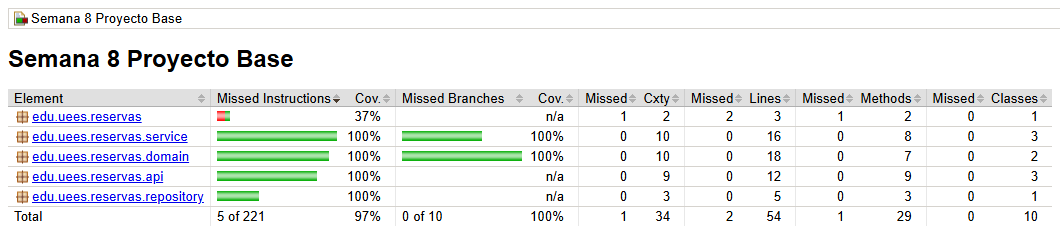
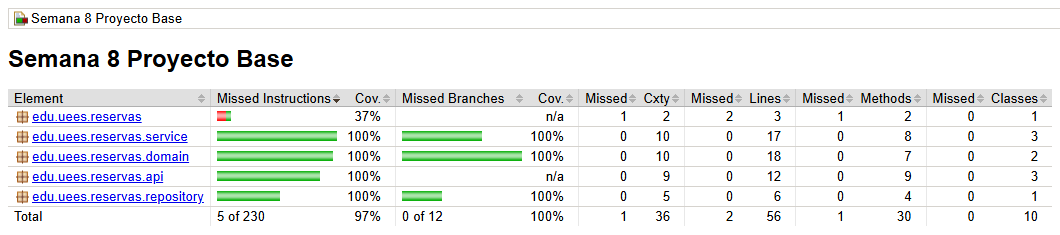
fix: crear reservas de forma atomica para evitar duplicados concurrentes

diff --git a/src/test/java/edu/uees/reservas/repository/ReservaRepositoryMemoriaTest.java b/src/test/java/edu/uees/reservas/repository/ReservaRepositoryMemoriaTest.java
@@ -1,0 +1,68 @@
+package edu.uees.reservas.repository;
+
+import edu.uees.reservas.domain.EstadoReserva;
+import edu.uees.reservas.domain.Reserva;
+import org.junit.jupiter.api.Test;
+
+import java.util.concurrent.CountDownLatch;
+import java.util.concurrent.ExecutorService;
+import java.util.concurrent.Executors;
+import java.util.concurrent.Future;
+import java.util.concurrent.TimeUnit;
+import java.util.concurrent.atomic.AtomicInteger;
+
+import static org.junit.jupiter.api.Assertions.assertEquals;
+import static org.junit.jupiter.api.Assertions.assertFalse;
+import static org.junit.jupiter.api.Assertions.assertSame;
+import static org.junit.jupiter.api.Assertions.assertTrue;
+
+class ReservaRepositoryMemoriaTest {
+
+    private final ReservaRepositoryMemoria repository = new ReservaRepositoryMemoria();
+
+    @Test
+    void guardarActualizaReservaExistente() {
+        Reserva reserva = new Reserva("R-001", "NORMAL");
+        repository.guardarSiNoExiste(reserva);
+        reserva.confirmar();
+
+        assertSame(reserva, repository.guardar(reserva));
+        assertEquals(EstadoReserva.CONFIRMADA, repository.buscarPorId("R-001").orElseThrow().getEstado());
+    }
+
+    @Test
+    void guardarSiNoExisteNoSobrescribe() {
+        assertTrue(repository.guardarSiNoExiste(new Reserva("R-001", "NORMAL")));
+        assertFalse(repository.guardarSiNoExiste(new Reserva("R-001", "VIP")));
+
+        assertEquals("NORMAL", repository.buscarPorId("R-001").orElseThrow().getTipo());
+    }
+
+    @Test
+    void creacionesSimultaneasConMismoIdSoloGuardanUna() throws Exception {
+        int hilos = 20;
+        ExecutorService pool = Executors.newFixedThreadPool(hilos);
+        CountDownLatch salida = new CountDownLatch(1);
+        AtomicInteger exitos = new AtomicInteger();
+        try {
+            Future<?>[] tareas = new Future<?>[hilos];
+            for (int i = 0; i < hilos; i++) {
+                tareas[i] = pool.submit(() -> {
+                    salida.await();
+                    if (repository.guardarSiNoExiste(new Reserva("R-900", "NORMAL"))) {
+                        exitos.incrementAndGet();
+                    }
+                    return null;
+                });
+            }
+            salida.countDown();
+            for (Future<?> tarea : tareas) {
+                tarea.get(5, TimeUnit.SECONDS);
+            }
+        } finally {
+            pool.shutdownNow();
+        }
+
+        assertEquals(1, exitos.get());
+    }
+}

diff --git a/src/test/java/edu/uees/reservas/service/ReservaServiceTest.java b/src/test/java/edu/uees/reservas/service/ReservaServiceTest.java
@@ -45,7 +45,7 @@ class ReservaServiceTest {
 
     @Test
     void crearGuardaReservaPendiente() {
-        when(repository.guardar(any(Reserva.class))).thenAnswer(inv -> inv.getArgument(0));
+        when(repository.guardarSiNoExiste(any(Reserva.class))).thenReturn(true);
 
         Reserva reserva = service.crear("R-001", "NORMAL");
 
@@ -56,7 +56,7 @@ class ReservaServiceTest {
 
     @Test
     void crearConIdExistenteLanzaExcepcionYNoSobrescribe() {
-        when(repository.buscarPorId("R-001")).thenReturn(Optional.of(new Reserva("R-001", "NORMAL")));
+        when(repository.guardarSiNoExiste(any(Reserva.class))).thenReturn(false);
 
         assertThrows(ReservaDuplicadaException.class, () -> service.crear("R-001", "VIP"));
         verify(repository, never()).guardar(any(Reserva.class));

diff --git a/src/main/java/edu/uees/reservas/service/ReservaService.java b/src/main/java/edu/uees/reservas/service/ReservaService.java
@@ -20,10 +20,11 @@ public class ReservaService {
     }
 
     public Reserva crear(String id, String tipo) {
-        if (repository.buscarPorId(id).isPresent()) {
+        Reserva reserva = new Reserva(id, tipo);
+        if (!repository.guardarSiNoExiste(reserva)) {
             throw new ReservaDuplicadaException(id);
         }
-        return repository.guardar(new Reserva(id, tipo));
+        return reserva;
     }
 
     public Reserva buscar(String id) {

diff --git a/src/main/java/edu/uees/reservas/repository/ReservaRepositoryMemoria.java b/src/main/java/edu/uees/reservas/repository/ReservaRepositoryMemoria.java
@@ -19,6 +19,11 @@ public class ReservaRepositoryMemoria implements ReservaRepository {
     }
 
     @Override
+    public boolean guardarSiNoExiste(Reserva reserva) {
+        return datos.putIfAbsent(reserva.getId(), reserva) == null;
+    }
+
+    @Override
     public Optional<Reserva> buscarPorId(String id) {
         return Optional.ofNullable(datos.get(id));
     }

diff --git a/src/main/java/edu/uees/reservas/repository/ReservaRepository.java b/src/main/java/edu/uees/reservas/repository/ReservaRepository.java
@@ -5,5 +5,6 @@ import java.util.Optional;
 
 public interface ReservaRepository {
     Reserva guardar(Reserva reserva);
+    boolean guardarSiNoExiste(Reserva reserva);
     Optional<Reserva> buscarPorId(String id);
 }

diff --git a/docs/03_DEFENSA_GUIA.md b/docs/03_DEFENSA_GUIA.md
@@ -43,6 +43,7 @@ Cada capa depende solo de la siguiente. El Controller no conoce las reglas y el 
 | `IllegalArgumentException` genérica → respuesta `500`. | `ReservaNoEncontradaException` + manejador → `404`. | El error expresa el negocio y el cliente recibe una respuesta correcta. |
 | Número fijo `2` dentro de `puedeCancelar`. | Constante `HORAS_MINIMAS_CANCELACION`. | La regla tiene nombre y se cambia en un solo lugar; las pruebas la reutilizan. |
 | Un POST con id repetido sobrescribía la reserva. | `ReservaDuplicadaException` → `409 Conflict`. | Se evita la pérdida silenciosa de datos. |
+| "Buscar y luego guardar" en dos pasos: dos POST simultáneos podían crear la misma reserva. | `guardarSiNoExiste()` en una sola operación atómica (`putIfAbsent`). | El control de duplicados funciona también con peticiones concurrentes. |
 
 ## 4. Demostración funcional (3–4 min)
 
@@ -64,7 +65,7 @@ bash scripts/demo.sh
 
 ## 5. Pruebas y cobertura (2 min)
 
-- `mvn clean test` → **24 pruebas en verde**, en 3 niveles: dominio (6), Service (9) y Controller con MockMvc (9).
+- `mvn clean test` → **27 pruebas en verde**, en 4 niveles: dominio (6), repositorio (3, incluida una prueba de concurrencia), Service (9) y Controller con MockMvc (9).
 - JaCoCo: **100 % de ramas**, 96 % de líneas y 98 % de instrucciones. Lo único sin cubrir es el método `main` que arranca la aplicación.
 - **Interpretación:** el 100 % de ramas significa que se probaron todas las decisiones del código (sí/no), no que el sistema esté libre de errores. La cobertura mide qué se ejecutó, no si la regla es la correcta.
 
@@ -74,9 +75,9 @@ bash scripts/demo.sh
 git log --oneline --graph --decorate
 ```
 
-- Ramas: `feature/integracion-api` → `release/candidato-final` → `feature/entrega-final`, cada una integrada a `main` mediante un Pull Request (#1, #2, #3).
+- Ramas: `feature/integracion-api` → `release/candidato-final` → `feature/entrega-final` → `fix/creacion-atomica`, cada una integrada a `main` mediante un Pull Request (#1 a #4).
 - Commits con prefijos (`feat`, `test`, `fix`, `refactor`, `docs`, `release`) y un solo propósito cada uno.
-- Versión final etiquetada como `v1.0.0`.
+- Versión final etiquetada como `v1.0.1`.
 
 ## 7. Limitaciones y cierre (1–2 min)
 
@@ -97,7 +98,7 @@ git log --oneline --graph --decorate
 | ¿Qué patrón resolvió un problema concreto? | El manejador global de errores: convirtió un `500` engañoso en un `404` claro sin modificar el Controller. |
 | ¿Qué patrón evitaron y por qué? | Strategy/Factory para los tipos de reserva, porque hoy no tienen comportamiento distinto. |
 | ¿Qué refactorización redujo deuda técnica? | Reemplazar la excepción genérica por excepciones del negocio, y el número fijo por una constante con nombre. |
-| ¿Qué caso de prueba protege el mayor riesgo? | `crearConIdExistenteLanzaExcepcionYNoSobrescribe`: evita la pérdida silenciosa de una reserva. |
+| ¿Qué caso de prueba protege el mayor riesgo? | `creacionesSimultaneasConMismoIdSoloGuardanUna`: 20 hilos intentan crear la misma reserva a la vez y solo una se guarda; evita la pérdida silenciosa de datos. |
 | ¿Qué significa la cobertura obtenida? | Que todas las decisiones del código se ejecutaron en alguna prueba. No garantiza ausencia de errores; por eso también probamos límites y excepciones. |
-| ¿Qué evidencia Git demuestra la evolución? | El grafo de ramas y los PR #1–#3, donde cada hallazgo de la auditoría tiene su propio commit. |
+| ¿Qué evidencia Git demuestra la evolución? | El grafo de ramas y los PR #1–#4, donde cada hallazgo de la auditoría tiene su propio commit. |
 | ¿Qué mejorarían en una siguiente iteración? | Persistencia real, tipos válidos, endpoints de confirmar/cancelar y autenticación. |

diff --git a/README.md b/README.md
@@ -11,7 +11,7 @@ API REST de reservas que expone reglas del proyecto respetando la separación **
 ```bash
 git clone https://github.com/justinjw93/UEES_UCOM0310_Semana8_Proyecto_BASE.git
 cd UEES_UCOM0310_Semana8_Proyecto_BASE
-mvn clean test          # 24 pruebas en verde
+mvn clean test          # 27 pruebas en verde
 mvn spring-boot:run     # API en http://localhost:8080
 bash scripts/demo.sh    # en otra terminal: recorrido completo de la API
 ```
@@ -70,8 +70,9 @@ repository/  Interfaz e implementación en memoria
 - `feature/integracion-api`: integración de la API REST.
 - `release/candidato-final`: versión candidata auditada.
 - `feature/entrega-final`: ajustes para la entrega final (Ae7).
+- `fix/creacion-atomica`: evita duplicados ante peticiones simultáneas.
 
-Versión final: etiqueta `v1.0.0`.
+Versión final: etiqueta `v1.0.1`.
 
 ## Limitaciones conocidas
 - Los datos se guardan en memoria y se pierden al reiniciar.

diff --git a/docs/02_AUDITORIA_FINAL_PLANTILLA.md b/docs/02_AUDITORIA_FINAL_PLANTILLA.md
@@ -10,11 +10,11 @@
 - [x] Dominio coherente: `Reserva` valida su id y controla su estado.
 
 ## Pruebas
-- [x] mvn clean test exitoso (24 pruebas en verde)
-- [x] JaCoCo revisado (100 % ramas, 96,3 % líneas)
+- [x] mvn clean test exitoso (27 pruebas en verde)
+- [x] JaCoCo revisado (100 % ramas, 96,4 % líneas)
 
 ## Git
-- [x] Rama final: `main` con etiqueta `v1.0.0` (integra `feature/integracion-api`, `release/candidato-final` y `feature/entrega-final`)
+- [x] Rama final: `main` con etiqueta `v1.0.1` (integra `feature/integracion-api`, `release/candidato-final`, `feature/entrega-final` y `fix/creacion-atomica`)
 - [x] Commits descriptivos
 - [x] Pull Request documentado
 
